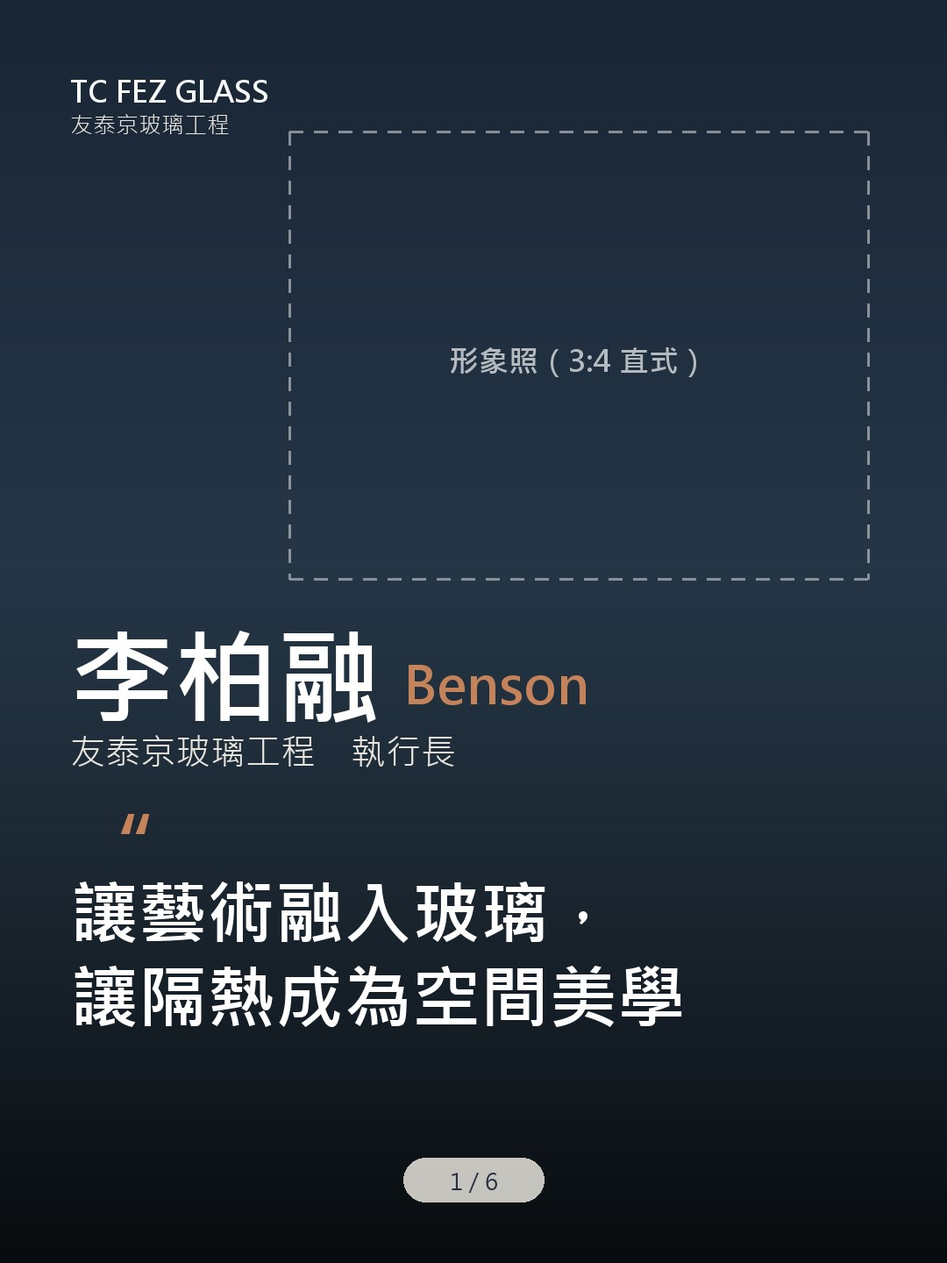
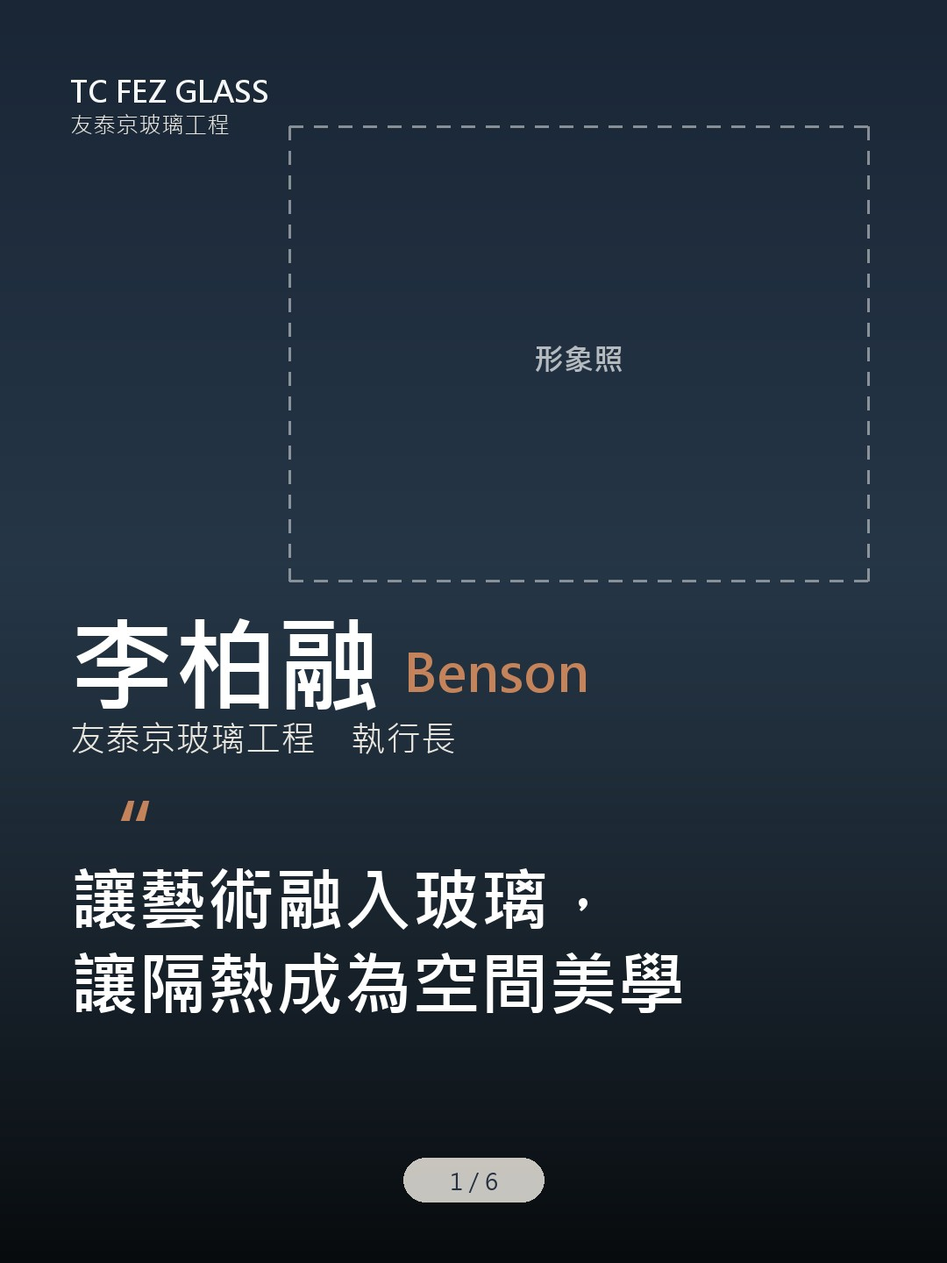
縮短膠囊標籤、卡1/5加保險文字、新增4:3較矮hero可選(?h=43)

diff --git a/index.html b/index.html
@@ -428,11 +428,11 @@ let liffReady = false, flexPayload = null;
 
 /* 改動 flex-cards.json 後請把 BUILD 往後跳一號：
    LINE 內建瀏覽器會快取檔案，不跳號會一直送出舊版卡片 */
-const BUILD = 'b16';
-const PAGE_VER = '2026-10-07-0700-精品工程版'   // 每次改頁面就改這個，用來確認手機拿到的是最新版
+const BUILD = 'b17';
+const PAGE_VER = '2026-10-07-0800-短標籤+4:3可選'   // 每次改頁面就改這個，用來確認手機拿到的是最新版
 
 /* ═══════ FLEX_PAYLOAD_START（由 build_flex.py 自動寫入，勿手改）═══════ */
-const INLINE_FLEX = {"type":"flex","altText":"友泰京玻璃工程｜李柏融 Benson 電子名片","contents":{"type":"carousel","contents":[{"type":"bubble","size":"mega","styles":{"body":{"backgroundColor":"#253043"}},"body":{"type":"box","layout":"vertical","contents":[{"type":"box","layout":"vertical","contents":[{"type":"box","layout":"horizontal","contents":[{"type":"box","layout":"vertical","contents":[{"type":"text","text":"IG 作品","size":"xs","weight":"bold","color":"#FFFFFF","wrap":false,"align":"center"}],"spacing":"none","paddingAll":"12px","backgroundColor":"#253043","cornerRadius":"100px","flex":1,"action":{"type":"uri","label":"IG 作品","uri":"https://www.instagram.com/tc_fez_glass_team/"}},{"type":"box","layout":"vertical","contents":[{"type":"text","text":"💬 LINE諮詢","size":"xs","weight":"bold","color":"#FFFFFF","wrap":false,"align":"center"}],"spacing":"none","paddingAll":"12px","backgroundColor":"#C4835A","cornerRadius":"100px","flex":1,"action":{"type":"uri","label":"💬 LINE諮詢","uri":"https://line.me/ti/p/@fez86488989"}},{"type":"box","layout":"vertical","contents":[{"type":"text","text":"📍 導航門市","size":"xs","weight":"bold","color":"#FFFFFF","wrap":false,"align":"center"}],"spacing":"none","paddingAll":"12px","backgroundColor":"#253043","cornerRadius":"100px","flex":1,"action":{"type":"uri","label":"📍 導航門市","uri":"https://www.google.com/maps/search/?api=1&query=%E5%8F%8B%E6%B3%B0%E4%BA%AC%E7%8E%BB%E7%92%83%E5%B7%A5%E7%A8%8B%20%E6%96%B0%E5%8C%97%E5%B8%82%E4%B8%AD%E5%92%8C%E5%8D%80%E9%80%A3%E5%9F%8E%E8%B7%AF518%E5%B7%B78%E8%99%9F"}}],"spacing":"sm"}],"spacing":"none","paddingAll":"12px","backgroundColor":"#F5F1E8","cornerRadius":"20px"}],"spacing":"none","paddingAll":"14px","backgroundColor":"#253043"},"hero":{"type":"image","url":"https://ericlin1994.github.io/movenpick-card/img/card1.jpg","size":"full","aspectRatio":"3:4","aspectMode":"cover","action":{"type":"uri","label":"開啟名片","uri":"https://liff.line.me/2011897701-TrLfDuwi"}}},{"type":"bubble","size":"mega","styles":{"body":{"backgroundColor":"#253043"}},"body":{"type":"box","layout":"vertical","contents":[{"type":"text","text":"我們專為誰服務","size":"xl","weight":"bold","color":"#C4835A","wrap":true,"margin":"none"},{"type":"box","layout":"vertical","contents":[{"type":"box","layout":"horizontal","contents":[{"type":"box","layout":"vertical","contents":[{"type":"text","text":"設計師","size":"xxs","weight":"bold","color":"#FFFFFF","wrap":false,"align":"center"}],"spacing":"none","paddingAll":"8px","cornerRadius":"100px","flex":1,"borderWidth":"1px","borderColor":"#C4835A"},{"type":"box","layout":"vertical","contents":[{"type":"text","text":"建築師","size":"xxs","weight":"bold","color":"#FFFFFF","wrap":false,"align":"center"}],"spacing":"none","paddingAll":"8px","cornerRadius":"100px","flex":1,"borderWidth":"1px","borderColor":"#C4835A"},{"type":"box","layout":"vertical","contents":[{"type":"text","text":"建商","size":"xxs","weight":"bold","color":"#FFFFFF","wrap":false,"align":"center"}],"spacing":"none","paddingAll":"8px","cornerRadius":"100px","flex":1,"borderWidth":"1px","borderColor":"#C4835A"}],"spacing":"xs"},{"type":"box","layout":"horizontal","contents":[{"type":"box","layout":"vertical","contents":[{"type":"text","text":"營造","size":"xxs","weight":"bold","color":"#FFFFFF","wrap":false,"align":"center"}],"spacing":"none","paddingAll":"8px","cornerRadius":"100px","flex":1,"borderWidth":"1px","borderColor":"#C4835A"},{"type":"box","layout":"vertical","contents":[{"type":"text","text":"商業空間","size":"xxs","weight":"bold","color":"#FFFFFF","wrap":false,"align":"center"}],"spacing":"none","paddingAll":"8px","cornerRadius":"100px","flex":1,"borderWidth":"1px","borderColor":"#C4835A"},{"type":"box","layout":"vertical","contents":[{"type":"text","text":"住宅業主","size":"xxs","weight":"bold","color":"#FFFFFF","wrap":false,"align":"center"}],"spacing":"none","paddingAll":"8px","cornerRadius":"100px","flex":1,"borderWidth":"1px","borderColor":"#C4835A"}],"spacing":"xs"}],"spacing":"xs","margin":"md"},{"type":"box","layout":"vertical","contents":[{"type":"text","text":"你是不是也遇過這些問題？","size":"xs","weight":"bold","color":"#253043","wrap":true,"margin":"none"},{"type":"separator","margin":"sm","color":"#DCD4C5"},{"type":"box","layout":"horizontal","contents":[{"type":"text","text":"📌","size":"xs","weight":"regular","color":"#C4835A","wrap":false,"flex":1},{"type":"text","text":"大圖輸出缺工藝，難達藝術質感","size":"xs","weight":"regular","color":"#253043","wrap":true,"margin":"none","flex":6}],"spacing":"sm","margin":"sm"},{"type":"box","layout":"horizontal","contents":[{"type":"text","text":"📌","size":"xs","weight":"regular","color":"#C4835A","wrap":false,"flex":1},{"type":"text","text":"玻璃鐵件分包，尺寸收邊難整合","size":"xs","weight":"regular","color":"#253043","wrap":true,"margin":"none","flex":6}],"spacing":"sm","margin":"sm"},{"type":"box","layout":"horizontal","contents":[{"type":"text","text":"📌","size":"xs","weight":"regular","color":"#C4835A","wrap":false,"flex":1},{"type":"text","text":"設計圖美，卻找不到廠家實作","size":"xs","weight":"regular","color":"#253043","wrap":true,"margin":"none","flex":6}],"spacing":"sm","margin":"sm"},{"type":"box","layout":"horizontal","contents":[{"type":"text","text":"📌","size":"xs","weight":"regular","color":"#C4835A","wrap":false,"flex":1},{"type":"text","text":"特殊彎曲或異材質，找不到方案","size":"xs","weight":"regular","color":"#253043","wrap":true,"margin":"none","flex":6}],"spacing":"sm","margin":"sm"},{"type":"box","layout":"horizontal","contents":[{"type":"text","text":"📌","size":"xs","weight":"regular","color":"#C4835A","wrap":false,"flex":1},{"type":"text","text":"兼顧採光與隔熱，不知如何選材","size":"xs","weight":"regular","color":"#253043","wrap":true,"margin":"none","flex":6}],"spacing":"sm","margin":"sm"}],"spacing":"sm","margin":"md","paddingAll":"18px","backgroundColor":"#F5F1E8","cornerRadius":"20px"},{"type":"box","layout":"vertical","contents":[{"type":"box","layout":"horizontal","contents":[{"type":"box","layout":"vertical","contents":[{"type":"text","text":"IG 作品","size":"xs","weight":"bold","color":"#FFFFFF","wrap":false,"align":"center"}],"spacing":"none","paddingAll":"12px","backgroundColor":"#253043","cornerRadius":"100px","flex":1,"action":{"type":"uri","label":"IG 作品","uri":"https://www.instagram.com/tc_fez_glass_team/"}},{"type":"box","layout":"vertical","contents":[{"type":"text","text":"💬 LINE諮詢","size":"xs","weight":"bold","color":"#FFFFFF","wrap":false,"align":"center"}],"spacing":"none","paddingAll":"12px","backgroundColor":"#C4835A","cornerRadius":"100px","flex":1,"action":{"type":"uri","label":"💬 LINE諮詢","uri":"https://line.me/ti/p/@fez86488989"}},{"type":"box","layout":"vertical","contents":[{"type":"text","text":"📍 導航門市","size":"xs","weight":"bold","color":"#FFFFFF","wrap":false,"align":"center"}],"spacing":"none","paddingAll":"12px","backgroundColor":"#253043","cornerRadius":"100px","flex":1,"action":{"type":"uri","label":"📍 導航門市","uri":"https://www.google.com/maps/search/?api=1&query=%E5%8F%8B%E6%B3%B0%E4%BA%AC%E7%8E%BB%E7%92%83%E5%B7%A5%E7%A8%8B%20%E6%96%B0%E5%8C%97%E5%B8%82%E4%B8%AD%E5%92%8C%E5%8D%80%E9%80%A3%E5%9F%8E%E8%B7%AF518%E5%B7%B78%E8%99%9F"}}],"spacing":"sm"}],"spacing":"none","paddingAll":"12px","backgroundColor":"#F5F1E8","cornerRadius":"20px"}],"spacing":"md","paddingAll":"18px","backgroundColor":"#253043"}},{"type":"bubble","size":"mega","styles":{"body":{"backgroundColor":"#253043"}},"body":{"type":"box","layout":"vertical","contents":[{"type":"text","text":"我們能為你做什麼","size":"xl","weight":"bold","color":"#C4835A","wrap":true,"margin":"none"},{"type":"text","text":"從設計規劃到現場施作，實現空間想像","size":"sm","weight":"regular","color":"#FFFFFF","wrap":true,"margin":"xs"},{"type":"box","layout":"horizontal","contents":[{"type":"box","layout":"vertical","contents":[{"type":"text","text":"🎨","size":"md","weight":"regular","color":"#C4835A","wrap":false,"margin":"none"},{"type":"text","text":"藝術玻璃","size":"sm","weight":"bold","color":"#FFFFFF","wrap":false,"margin":"sm"},{"type":"text","text":"工藝與色彩結合","size":"xs","weight":"regular","color":"#A0AAB8","wrap":true,"margin":"xs"}],"spacing":"none","paddingAll":"16px","backgroundColor":"#1E2838","cornerRadius":"16px","flex":1},{"type":"box","layout":"vertical","contents":[{"type":"text","text":"🪟","size":"md","weight":"regular","color":"#C4835A","wrap":false,"margin":"none"},{"type":"text","text":"空間玻璃","size":"sm","weight":"bold","color":"#FFFFFF","wrap":false,"margin":"sm"},{"type":"text","text":"美感實用隔間窗","size":"xs","weight":"regular","color":"#A0AAB8","wrap":true,"margin":"xs"}],"spacing":"none","paddingAll":"16px","backgroundColor":"#1E2838","cornerRadius":"16px","flex":1}],"spacing":"md","margin":"md"},{"type":"box","layout":"horizontal","contents":[{"type":"box","layout":"vertical","contents":[{"type":"text","text":"🏗","size":"md","weight":"regular","color":"#C4835A","wrap":false,"margin":"none"},{"type":"text","text":"工程整合","size":"sm","weight":"bold","color":"#FFFFFF","wrap":false,"margin":"sm"},{"type":"text","text":"鋁框鐵件一條龍","size":"xs","weight":"regular","color":"#A0AAB8","wrap":true,"margin":"xs"}],"spacing":"none","paddingAll":"16px","backgroundColor":"#1E2838","cornerRadius":"16px","flex":1},{"type":"box","layout":"vertical","contents":[{"type":"text","text":"🧗","size":"md","weight":"regular","color":"#C4835A","wrap":false,"margin":"none"},{"type":"text","text":"高空作業","size":"sm","weight":"bold","color":"#FFFFFF","wrap":false,"margin":"sm"},{"type":"text","text":"外牆檢測與防水","size":"xs","weight":"regular","color":"#A0AAB8","wrap":true,"margin":"xs"}],"spacing":"none","paddingAll":"16px","backgroundColor":"#1E2838","cornerRadius":"16px","flex":1}],"spacing":"md","margin":"md"},{"type":"box","layout":"vertical","contents":[{"type":"box","layout":"horizontal","contents":[{"type":"box","layout":"vertical","contents":[{"type":"text","text":"IG 作品","size":"xs","weight":"bold","color":"#FFFFFF","wrap":false,"align":"center"}],"spacing":"none","paddingAll":"12px","backgroundColor":"#253043","cornerRadius":"100px","flex":1,"action":{"type":"uri","label":"IG 作品","uri":"https://www.instagram.com/tc_fez_glass_team/"}},{"type":"box","layout":"vertical","contents":[{"type":"text","text":"💬 LINE諮詢","size":"xs","weight":"bold","color":"#FFFFFF","wrap":false,"align":"center"}],"spacing":"none","paddingAll":"12px","backgroundColor":"#C4835A","cornerRadius":"100px","flex":1,"action":{"type":"uri","label":"💬 LINE諮詢","uri":"https://line.me/ti/p/@fez86488989"}},{"type":"box","layout":"vertical","contents":[{"type":"text","text":"📍 導航門市","size":"xs","weight":"bold","color":"#FFFFFF","wrap":false,"align":"center"}],"spacing":"none","paddingAll":"12px","backgroundColor":"#253043","cornerRadius":"100px","flex":1,"action":{"type":"uri","label":"📍 導航門市","uri":"https://www.google.com/maps/search/?api=1&query=%E5%8F%8B%E6%B3%B0%E4%BA%AC%E7%8E%BB%E7%92%83%E5%B7%A5%E7%A8%8B%20%E6%96%B0%E5%8C%97%E5%B8%82%E4%B8%AD%E5%92%8C%E5%8D%80%E9%80%A3%E5%9F%8E%E8%B7%AF518%E5%B7%B78%E8%99%9F"}}],"spacing":"sm"}],"spacing":"none","paddingAll":"12px","backgroundColor":"#F5F1E8","cornerRadius":"20px"}],"spacing":"md","paddingAll":"18px","backgroundColor":"#253043"}},{"type":"bubble","size":"mega","styles":{"body":{"backgroundColor":"#253043"}},"body":{"type":"box","layout":"vertical","contents":[{"type":"text","text":"為什麼選擇友泰京？","size":"xl","weight":"bold","color":"#C4835A","wrap":true,"margin":"none"},{"type":"box","layout":"horizontal","contents":[{"type":"text","text":"30+","size":"4xl","weight":"bold","color":"#C4835A","wrap":false,"flex":2},{"type":"text","text":"年玻璃產業\n服務經驗","size":"sm","weight":"bold","color":"#FFFFFF","wrap":true,"margin":"none","flex":3}],"spacing":"md","margin":"xl","alignItems":"center"},{"type":"box","layout":"horizontal","contents":[{"type":"text","text":"3","size":"4xl","weight":"bold","color":"#C4835A","wrap":false,"flex":2},{"type":"text","text":"代工藝傳承\n品質保證","size":"sm","weight":"bold","color":"#FFFFFF","wrap":true,"margin":"none","flex":3}],"spacing":"md","margin":"md","alignItems":"center"},{"type":"box","layout":"horizontal","contents":[{"type":"text","text":"4","size":"4xl","weight":"bold","color":"#C4835A","wrap":false,"flex":2},{"type":"text","text":"大服務項目\n專業整合","size":"sm","weight":"bold","color":"#FFFFFF","wrap":true,"margin":"none","flex":3}],"spacing":"md","margin":"md","alignItems":"center"},{"type":"box","layout":"vertical","contents":[{"type":"box","layout":"horizontal","contents":[{"type":"box","layout":"vertical","contents":[{"type":"text","text":"IG 作品","size":"xs","weight":"bold","color":"#FFFFFF","wrap":false,"align":"center"}],"spacing":"none","paddingAll":"12px","backgroundColor":"#253043","cornerRadius":"100px","flex":1,"action":{"type":"uri","label":"IG 作品","uri":"https://www.instagram.com/tc_fez_glass_team/"}},{"type":"box","layout":"vertical","contents":[{"type":"text","text":"💬 LINE諮詢","size":"xs","weight":"bold","color":"#FFFFFF","wrap":false,"align":"center"}],"spacing":"none","paddingAll":"12px","backgroundColor":"#C4835A","cornerRadius":"100px","flex":1,"action":{"type":"uri","label":"💬 LINE諮詢","uri":"https://line.me/ti/p/@fez86488989"}},{"type":"box","layout":"vertical","contents":[{"type":"text","text":"📍 導航門市","size":"xs","weight":"bold","color":"#FFFFFF","wrap":false,"align":"center"}],"spacing":"none","paddingAll":"12px","backgroundColor":"#253043","cornerRadius":"100px","flex":1,"action":{"type":"uri","label":"📍 導航門市","uri":"https://www.google.com/maps/search/?api=1&query=%E5%8F%8B%E6%B3%B0%E4%BA%AC%E7%8E%BB%E7%92%83%E5%B7%A5%E7%A8%8B%20%E6%96%B0%E5%8C%97%E5%B8%82%E4%B8%AD%E5%92%8C%E5%8D%80%E9%80%A3%E5%9F%8E%E8%B7%AF518%E5%B7%B78%E8%99%9F"}}],"spacing":"sm"}],"spacing":"none","paddingAll":"12px","backgroundColor":"#F5F1E8","cornerRadius":"20px"}],"spacing":"md","paddingAll":"18px","backgroundColor":"#253043"}},{"type":"bubble","size":"mega","styles":{"body":{"backgroundColor":"#253043"}},"body":{"type":"box","layout":"vertical","contents":[{"type":"box","layout":"vertical","contents":[{"type":"box","layout":"horizontal","contents":[{"type":"box","layout":"vertical","contents":[{"type":"text","text":"IG 作品","size":"xs","weight":"bold","color":"#FFFFFF","wrap":false,"align":"center"}],"spacing":"none","paddingAll":"12px","backgroundColor":"#253043","cornerRadius":"100px","flex":1,"action":{"type":"uri","label":"IG 作品","uri":"https://www.instagram.com/tc_fez_glass_team/"}},{"type":"box","layout":"vertical","contents":[{"type":"text","text":"💬 LINE諮詢","size":"xs","weight":"bold","color":"#FFFFFF","wrap":false,"align":"center"}],"spacing":"none","paddingAll":"12px","backgroundColor":"#C4835A","cornerRadius":"100px","flex":1,"action":{"type":"uri","label":"💬 LINE諮詢","uri":"https://line.me/ti/p/@fez86488989"}},{"type":"box","layout":"vertical","contents":[{"type":"text","text":"📍 導航門市","size":"xs","weight":"bold","color":"#FFFFFF","wrap":false,"align":"center"}],"spacing":"none","paddingAll":"12px","backgroundColor":"#253043","cornerRadius":"100px","flex":1,"action":{"type":"uri","label":"📍 導航門市","uri":"https://www.google.com/maps/search/?api=1&query=%E5%8F%8B%E6%B3%B0%E4%BA%AC%E7%8E%BB%E7%92%83%E5%B7%A5%E7%A8%8B%20%E6%96%B0%E5%8C%97%E5%B8%82%E4%B8%AD%E5%92%8C%E5%8D%80%E9%80%A3%E5%9F%8E%E8%B7%AF518%E5%B7%B78%E8%99%9F"}}],"spacing":"sm"}],"spacing":"none","paddingAll":"12px","backgroundColor":"#F5F1E8","cornerRadius":"20px"}],"spacing":"none","paddingAll":"14px","backgroundColor":"#253043"},"hero":{"type":"image","url":"https://ericlin1994.github.io/movenpick-card/img/card5.jpg","size":"full","aspectRatio":"3:4","aspectMode":"cover","action":{"type":"uri","label":"開啟名片","uri":"https://liff.line.me/2011897701-TrLfDuwi"}}},{"type":"bubble","size":"mega","styles":{"body":{"backgroundColor":"#F5F1E8"}},"body":{"type":"box","layout":"vertical","contents":[{"type":"text","text":"讓我們聊聊你的空間","size":"xl","weight":"bold","color":"#253043","wrap":true,"margin":"none"},{"type":"text","text":"拍下現場照片＋尺寸，LINE 傳給我免費評估","size":"xs","weight":"bold","color":"#C4835A","wrap":true,"margin":"xs"},{"type":"box","layout":"vertical","contents":[{"type":"box","layout":"horizontal","contents":[{"type":"text","text":"📞","size":"sm","weight":"regular","color":"#C4835A","wrap":false,"flex":1},{"type":"text","text":"0938-111-822","size":"sm","weight":"bold","color":"#FFFFFF","wrap":true,"margin":"none","flex":6}],"spacing":"sm","margin":"sm"},{"type":"box","layout":"horizontal","contents":[{"type":"text","text":"💬","size":"sm","weight":"regular","color":"#C4835A","wrap":false,"flex":1},{"type":"text","text":"LINE：@fez86488989","size":"sm","weight":"bold","color":"#FFFFFF","wrap":true,"margin":"none","flex":6}],"spacing":"sm","margin":"sm"},{"type":"box","layout":"horizontal","contents":[{"type":"text","text":"📍","size":"sm","weight":"regular","color":"#C4835A","wrap":false,"flex":1},{"type":"text","text":"新北市中和區連城路518巷8號（中和高中旁巷）","size":"xs","weight":"regular","color":"#FFFFFF","wrap":true,"margin":"none","flex":6}],"spacing":"sm","margin":"sm"},{"type":"box","layout":"horizontal","contents":[{"type":"text","text":"⏰","size":"sm","weight":"regular","color":"#C4835A","wrap":false,"flex":1},{"type":"text","text":"週一～五 08:00-17:00","size":"xs","weight":"regular","color":"#FFFFFF","wrap":true,"margin":"none","flex":6}],"spacing":"sm","margin":"sm"}],"spacing":"sm","margin":"md","paddingAll":"18px","backgroundColor":"#253043","cornerRadius":"20px"},{"type":"box","layout":"vertical","contents":[{"type":"box","layout":"horizontal","contents":[{"type":"box","layout":"vertical","contents":[{"type":"text","text":"IG 作品","size":"xs","weight":"bold","color":"#FFFFFF","wrap":false,"align":"center"}],"spacing":"none","paddingAll":"12px","backgroundColor":"#253043","cornerRadius":"100px","flex":1,"action":{"type":"uri","label":"IG 作品","uri":"https://www.instagram.com/tc_fez_glass_team/"}},{"type":"box","layout":"vertical","contents":[{"type":"text","text":"💬 LINE諮詢","size":"xs","weight":"bold","color":"#FFFFFF","wrap":false,"align":"center"}],"spacing":"none","paddingAll":"12px","backgroundColor":"#C4835A","cornerRadius":"100px","flex":1,"action":{"type":"uri","label":"💬 LINE諮詢","uri":"https://line.me/ti/p/@fez86488989"}},{"type":"box","layout":"vertical","contents":[{"type":"text","text":"📍 導航門市","size":"xs","weight":"bold","color":"#FFFFFF","wrap":false,"align":"center"}],"spacing":"none","paddingAll":"12px","backgroundColor":"#253043","cornerRadius":"100px","flex":1,"action":{"type":"uri","label":"📍 導航門市","uri":"https://www.google.com/maps/search/?api=1&query=%E5%8F%8B%E6%B3%B0%E4%BA%AC%E7%8E%BB%E7%92%83%E5%B7%A5%E7%A8%8B%20%E6%96%B0%E5%8C%97%E5%B8%82%E4%B8%AD%E5%92%8C%E5%8D%80%E9%80%A3%E5%9F%8E%E8%B7%AF518%E5%B7%B78%E8%99%9F"}}],"spacing":"sm"}],"spacing":"none","paddingAll":"12px","backgroundColor":"#F5F1E8","cornerRadius":"20px"}],"spacing":"md","paddingAll":"18px","backgroundColor":"#F5F1E8"}}]}};
+const INLINE_FLEX = {"type":"flex","altText":"友泰京玻璃工程｜李柏融 Benson 電子名片","contents":{"type":"carousel","contents":[{"type":"bubble","size":"mega","styles":{"body":{"backgroundColor":"#253043"}},"body":{"type":"box","layout":"vertical","contents":[{"type":"text","text":"友泰京玻璃工程　藝術玻璃・空間玻璃・工程整合・外牆高空作業","size":"xxs","weight":"regular","color":"#A0AAB8","wrap":true,"margin":"none"},{"type":"box","layout":"vertical","contents":[{"type":"box","layout":"horizontal","contents":[{"type":"box","layout":"vertical","contents":[{"type":"text","text":"📷 IG 作品","size":"xxs","weight":"bold","color":"#FFFFFF","wrap":true,"align":"center"}],"spacing":"none","paddingAll":"10px","backgroundColor":"#253043","cornerRadius":"100px","flex":1,"action":{"type":"uri","label":"📷 IG 作品","uri":"https://www.instagram.com/tc_fez_glass_team/"}},{"type":"box","layout":"vertical","contents":[{"type":"text","text":"💬 LINE","size":"xxs","weight":"bold","color":"#FFFFFF","wrap":true,"align":"center"}],"spacing":"none","paddingAll":"10px","backgroundColor":"#C4835A","cornerRadius":"100px","flex":1,"action":{"type":"uri","label":"💬 LINE","uri":"https://line.me/ti/p/@fez86488989"}},{"type":"box","layout":"vertical","contents":[{"type":"text","text":"📍 導航","size":"xxs","weight":"bold","color":"#FFFFFF","wrap":true,"align":"center"}],"spacing":"none","paddingAll":"10px","backgroundColor":"#253043","cornerRadius":"100px","flex":1,"action":{"type":"uri","label":"📍 導航","uri":"https://www.google.com/maps/search/?api=1&query=%E5%8F%8B%E6%B3%B0%E4%BA%AC%E7%8E%BB%E7%92%83%E5%B7%A5%E7%A8%8B%20%E6%96%B0%E5%8C%97%E5%B8%82%E4%B8%AD%E5%92%8C%E5%8D%80%E9%80%A3%E5%9F%8E%E8%B7%AF518%E5%B7%B78%E8%99%9F"}}],"spacing":"sm"}],"spacing":"none","paddingAll":"10px","backgroundColor":"#F5F1E8","cornerRadius":"20px"}],"spacing":"md","paddingAll":"14px","backgroundColor":"#253043"},"hero":{"type":"image","url":"https://ericlin1994.github.io/movenpick-card/img/card1.jpg","size":"full","aspectRatio":"3:4","aspectMode":"cover","action":{"type":"uri","label":"開啟名片","uri":"https://liff.line.me/2011897701-TrLfDuwi"}}},{"type":"bubble","size":"mega","styles":{"body":{"backgroundColor":"#253043"}},"body":{"type":"box","layout":"vertical","contents":[{"type":"text","text":"我們專為誰服務","size":"xl","weight":"bold","color":"#C4835A","wrap":true,"margin":"none"},{"type":"box","layout":"vertical","contents":[{"type":"box","layout":"horizontal","contents":[{"type":"box","layout":"vertical","contents":[{"type":"text","text":"設計師","size":"xxs","weight":"bold","color":"#FFFFFF","wrap":false,"align":"center"}],"spacing":"none","paddingAll":"8px","cornerRadius":"100px","flex":1,"borderWidth":"1px","borderColor":"#C4835A"},{"type":"box","layout":"vertical","contents":[{"type":"text","text":"建築師","size":"xxs","weight":"bold","color":"#FFFFFF","wrap":false,"align":"center"}],"spacing":"none","paddingAll":"8px","cornerRadius":"100px","flex":1,"borderWidth":"1px","borderColor":"#C4835A"},{"type":"box","layout":"vertical","contents":[{"type":"text","text":"建商","size":"xxs","weight":"bold","color":"#FFFFFF","wrap":false,"align":"center"}],"spacing":"none","paddingAll":"8px","cornerRadius":"100px","flex":1,"borderWidth":"1px","borderColor":"#C4835A"}],"spacing":"xs"},{"type":"box","layout":"horizontal","contents":[{"type":"box","layout":"vertical","contents":[{"type":"text","text":"營造","size":"xxs","weight":"bold","color":"#FFFFFF","wrap":false,"align":"center"}],"spacing":"none","paddingAll":"8px","cornerRadius":"100px","flex":1,"borderWidth":"1px","borderColor":"#C4835A"},{"type":"box","layout":"vertical","contents":[{"type":"text","text":"商空","size":"xxs","weight":"bold","color":"#FFFFFF","wrap":false,"align":"center"}],"spacing":"none","paddingAll":"8px","cornerRadius":"100px","flex":1,"borderWidth":"1px","borderColor":"#C4835A"},{"type":"box","layout":"vertical","contents":[{"type":"text","text":"住宅","size":"xxs","weight":"bold","color":"#FFFFFF","wrap":false,"align":"center"}],"spacing":"none","paddingAll":"8px","cornerRadius":"100px","flex":1,"borderWidth":"1px","borderColor":"#C4835A"}],"spacing":"xs"}],"spacing":"xs","margin":"md"},{"type":"box","layout":"vertical","contents":[{"type":"text","text":"你是不是也遇過這些問題？","size":"xs","weight":"bold","color":"#253043","wrap":true,"margin":"none"},{"type":"separator","margin":"sm","color":"#DCD4C5"},{"type":"box","layout":"horizontal","contents":[{"type":"text","text":"📌","size":"xs","weight":"regular","color":"#C4835A","wrap":false,"flex":1},{"type":"text","text":"大圖輸出缺工藝，難達藝術質感","size":"xs","weight":"regular","color":"#253043","wrap":true,"margin":"none","flex":6}],"spacing":"sm","margin":"sm"},{"type":"box","layout":"horizontal","contents":[{"type":"text","text":"📌","size":"xs","weight":"regular","color":"#C4835A","wrap":false,"flex":1},{"type":"text","text":"玻璃鐵件分包，尺寸收邊難整合","size":"xs","weight":"regular","color":"#253043","wrap":true,"margin":"none","flex":6}],"spacing":"sm","margin":"sm"},{"type":"box","layout":"horizontal","contents":[{"type":"text","text":"📌","size":"xs","weight":"regular","color":"#C4835A","wrap":false,"flex":1},{"type":"text","text":"設計圖美，卻找不到廠家實作","size":"xs","weight":"regular","color":"#253043","wrap":true,"margin":"none","flex":6}],"spacing":"sm","margin":"sm"},{"type":"box","layout":"horizontal","contents":[{"type":"text","text":"📌","size":"xs","weight":"regular","color":"#C4835A","wrap":false,"flex":1},{"type":"text","text":"特殊彎曲或異材質，找不到方案","size":"xs","weight":"regular","color":"#253043","wrap":true,"margin":"none","flex":6}],"spacing":"sm","margin":"sm"},{"type":"box","layout":"horizontal","contents":[{"type":"text","text":"📌","size":"xs","weight":"regular","color":"#C4835A","wrap":false,"flex":1},{"type":"text","text":"兼顧採光與隔熱，不知如何選材","size":"xs","weight":"regular","color":"#253043","wrap":true,"margin":"none","flex":6}],"spacing":"sm","margin":"sm"}],"spacing":"sm","margin":"md","paddingAll":"18px","backgroundColor":"#F5F1E8","cornerRadius":"20px"},{"type":"box","layout":"vertical","contents":[{"type":"box","layout":"horizontal","contents":[{"type":"box","layout":"vertical","contents":[{"type":"text","text":"📷 IG 作品","size":"xxs","weight":"bold","color":"#FFFFFF","wrap":true,"align":"center"}],"spacing":"none","paddingAll":"10px","backgroundColor":"#253043","cornerRadius":"100px","flex":1,"action":{"type":"uri","label":"📷 IG 作品","uri":"https://www.instagram.com/tc_fez_glass_team/"}},{"type":"box","layout":"vertical","contents":[{"type":"text","text":"💬 LINE","size":"xxs","weight":"bold","color":"#FFFFFF","wrap":true,"align":"center"}],"spacing":"none","paddingAll":"10px","backgroundColor":"#C4835A","cornerRadius":"100px","flex":1,"action":{"type":"uri","label":"💬 LINE","uri":"https://line.me/ti/p/@fez86488989"}},{"type":"box","layout":"vertical","contents":[{"type":"text","text":"📍 導航","size":"xxs","weight":"bold","color":"#FFFFFF","wrap":true,"align":"center"}],"spacing":"none","paddingAll":"10px","backgroundColor":"#253043","cornerRadius":"100px","flex":1,"action":{"type":"uri","label":"📍 導航","uri":"https://www.google.com/maps/search/?api=1&query=%E5%8F%8B%E6%B3%B0%E4%BA%AC%E7%8E%BB%E7%92%83%E5%B7%A5%E7%A8%8B%20%E6%96%B0%E5%8C%97%E5%B8%82%E4%B8%AD%E5%92%8C%E5%8D%80%E9%80%A3%E5%9F%8E%E8%B7%AF518%E5%B7%B78%E8%99%9F"}}],"spacing":"sm"}],"spacing":"none","paddingAll":"10px","backgroundColor":"#F5F1E8","cornerRadius":"20px"}],"spacing":"md","paddingAll":"18px","backgroundColor":"#253043"}},{"type":"bubble","size":"mega","styles":{"body":{"backgroundColor":"#253043"}},"body":{"type":"box","layout":"vertical","contents":[{"type":"text","text":"我們能為你做什麼","size":"xl","weight":"bold","color":"#C4835A","wrap":true,"margin":"none"},{"type":"text","text":"從設計規劃到現場施作，實現空間想像","size":"sm","weight":"regular","color":"#FFFFFF","wrap":true,"margin":"xs"},{"type":"box","layout":"horizontal","contents":[{"type":"box","layout":"vertical","contents":[{"type":"text","text":"🎨","size":"md","weight":"regular","color":"#C4835A","wrap":false,"margin":"none"},{"type":"text","text":"藝術玻璃","size":"sm","weight":"bold","color":"#FFFFFF","wrap":false,"margin":"sm"},{"type":"text","text":"工藝與色彩結合","size":"xs","weight":"regular","color":"#A0AAB8","wrap":true,"margin":"xs"}],"spacing":"none","paddingAll":"16px","backgroundColor":"#1E2838","cornerRadius":"16px","flex":1},{"type":"box","layout":"vertical","contents":[{"type":"text","text":"🪟","size":"md","weight":"regular","color":"#C4835A","wrap":false,"margin":"none"},{"type":"text","text":"空間玻璃","size":"sm","weight":"bold","color":"#FFFFFF","wrap":false,"margin":"sm"},{"type":"text","text":"美感實用隔間窗","size":"xs","weight":"regular","color":"#A0AAB8","wrap":true,"margin":"xs"}],"spacing":"none","paddingAll":"16px","backgroundColor":"#1E2838","cornerRadius":"16px","flex":1}],"spacing":"md","margin":"md"},{"type":"box","layout":"horizontal","contents":[{"type":"box","layout":"vertical","contents":[{"type":"text","text":"🏗","size":"md","weight":"regular","color":"#C4835A","wrap":false,"margin":"none"},{"type":"text","text":"工程整合","size":"sm","weight":"bold","color":"#FFFFFF","wrap":false,"margin":"sm"},{"type":"text","text":"鋁框鐵件一條龍","size":"xs","weight":"regular","color":"#A0AAB8","wrap":true,"margin":"xs"}],"spacing":"none","paddingAll":"16px","backgroundColor":"#1E2838","cornerRadius":"16px","flex":1},{"type":"box","layout":"vertical","contents":[{"type":"text","text":"🧗","size":"md","weight":"regular","color":"#C4835A","wrap":false,"margin":"none"},{"type":"text","text":"高空作業","size":"sm","weight":"bold","color":"#FFFFFF","wrap":false,"margin":"sm"},{"type":"text","text":"外牆檢測與防水","size":"xs","weight":"regular","color":"#A0AAB8","wrap":true,"margin":"xs"}],"spacing":"none","paddingAll":"16px","backgroundColor":"#1E2838","cornerRadius":"16px","flex":1}],"spacing":"md","margin":"md"},{"type":"box","layout":"vertical","contents":[{"type":"box","layout":"horizontal","contents":[{"type":"box","layout":"vertical","contents":[{"type":"text","text":"📷 IG 作品","size":"xxs","weight":"bold","color":"#FFFFFF","wrap":true,"align":"center"}],"spacing":"none","paddingAll":"10px","backgroundColor":"#253043","cornerRadius":"100px","flex":1,"action":{"type":"uri","label":"📷 IG 作品","uri":"https://www.instagram.com/tc_fez_glass_team/"}},{"type":"box","layout":"vertical","contents":[{"type":"text","text":"💬 LINE","size":"xxs","weight":"bold","color":"#FFFFFF","wrap":true,"align":"center"}],"spacing":"none","paddingAll":"10px","backgroundColor":"#C4835A","cornerRadius":"100px","flex":1,"action":{"type":"uri","label":"💬 LINE","uri":"https://line.me/ti/p/@fez86488989"}},{"type":"box","layout":"vertical","contents":[{"type":"text","text":"📍 導航","size":"xxs","weight":"bold","color":"#FFFFFF","wrap":true,"align":"center"}],"spacing":"none","paddingAll":"10px","backgroundColor":"#253043","cornerRadius":"100px","flex":1,"action":{"type":"uri","label":"📍 導航","uri":"https://www.google.com/maps/search/?api=1&query=%E5%8F%8B%E6%B3%B0%E4%BA%AC%E7%8E%BB%E7%92%83%E5%B7%A5%E7%A8%8B%20%E6%96%B0%E5%8C%97%E5%B8%82%E4%B8%AD%E5%92%8C%E5%8D%80%E9%80%A3%E5%9F%8E%E8%B7%AF518%E5%B7%B78%E8%99%9F"}}],"spacing":"sm"}],"spacing":"none","paddingAll":"10px","backgroundColor":"#F5F1E8","cornerRadius":"20px"}],"spacing":"md","paddingAll":"18px","backgroundColor":"#253043"}},{"type":"bubble","size":"mega","styles":{"body":{"backgroundColor":"#253043"}},"body":{"type":"box","layout":"vertical","contents":[{"type":"text","text":"為什麼選擇友泰京？","size":"xl","weight":"bold","color":"#C4835A","wrap":true,"margin":"none"},{"type":"box","layout":"horizontal","contents":[{"type":"text","text":"30+","size":"4xl","weight":"bold","color":"#C4835A","wrap":false,"flex":2},{"type":"text","text":"年玻璃產業\n服務經驗","size":"sm","weight":"bold","color":"#FFFFFF","wrap":true,"margin":"none","flex":3}],"spacing":"md","margin":"xl","alignItems":"center"},{"type":"box","layout":"horizontal","contents":[{"type":"text","text":"3","size":"4xl","weight":"bold","color":"#C4835A","wrap":false,"flex":2},{"type":"text","text":"代工藝傳承\n品質保證","size":"sm","weight":"bold","color":"#FFFFFF","wrap":true,"margin":"none","flex":3}],"spacing":"md","margin":"md","alignItems":"center"},{"type":"box","layout":"horizontal","contents":[{"type":"text","text":"4","size":"4xl","weight":"bold","color":"#C4835A","wrap":false,"flex":2},{"type":"text","text":"大服務項目\n專業整合","size":"sm","weight":"bold","color":"#FFFFFF","wrap":true,"margin":"none","flex":3}],"spacing":"md","margin":"md","alignItems":"center"},{"type":"box","layout":"vertical","contents":[{"type":"box","layout":"horizontal","contents":[{"type":"box","layout":"vertical","contents":[{"type":"text","text":"📷 IG 作品","size":"xxs","weight":"bold","color":"#FFFFFF","wrap":true,"align":"center"}],"spacing":"none","paddingAll":"10px","backgroundColor":"#253043","cornerRadius":"100px","flex":1,"action":{"type":"uri","label":"📷 IG 作品","uri":"https://www.instagram.com/tc_fez_glass_team/"}},{"type":"box","layout":"vertical","contents":[{"type":"text","text":"💬 LINE","size":"xxs","weight":"bold","color":"#FFFFFF","wrap":true,"align":"center"}],"spacing":"none","paddingAll":"10px","backgroundColor":"#C4835A","cornerRadius":"100px","flex":1,"action":{"type":"uri","label":"💬 LINE","uri":"https://line.me/ti/p/@fez86488989"}},{"type":"box","layout":"vertical","contents":[{"type":"text","text":"📍 導航","size":"xxs","weight":"bold","color":"#FFFFFF","wrap":true,"align":"center"}],"spacing":"none","paddingAll":"10px","backgroundColor":"#253043","cornerRadius":"100px","flex":1,"action":{"type":"uri","label":"📍 導航","uri":"https://www.google.com/maps/search/?api=1&query=%E5%8F%8B%E6%B3%B0%E4%BA%AC%E7%8E%BB%E7%92%83%E5%B7%A5%E7%A8%8B%20%E6%96%B0%E5%8C%97%E5%B8%82%E4%B8%AD%E5%92%8C%E5%8D%80%E9%80%A3%E5%9F%8E%E8%B7%AF518%E5%B7%B78%E8%99%9F"}}],"spacing":"sm"}],"spacing":"none","paddingAll":"10px","backgroundColor":"#F5F1E8","cornerRadius":"20px"}],"spacing":"md","paddingAll":"18px","backgroundColor":"#253043"}},{"type":"bubble","size":"mega","styles":{"body":{"backgroundColor":"#253043"}},"body":{"type":"box","layout":"vertical","contents":[{"type":"text","text":"藝術工藝・機能選材・精準加工・施工細節","size":"xxs","weight":"regular","color":"#A0AAB8","wrap":true,"margin":"none"},{"type":"box","layout":"vertical","contents":[{"type":"box","layout":"horizontal","contents":[{"type":"box","layout":"vertical","contents":[{"type":"text","text":"📷 IG 作品","size":"xxs","weight":"bold","color":"#FFFFFF","wrap":true,"align":"center"}],"spacing":"none","paddingAll":"10px","backgroundColor":"#253043","cornerRadius":"100px","flex":1,"action":{"type":"uri","label":"📷 IG 作品","uri":"https://www.instagram.com/tc_fez_glass_team/"}},{"type":"box","layout":"vertical","contents":[{"type":"text","text":"💬 LINE","size":"xxs","weight":"bold","color":"#FFFFFF","wrap":true,"align":"center"}],"spacing":"none","paddingAll":"10px","backgroundColor":"#C4835A","cornerRadius":"100px","flex":1,"action":{"type":"uri","label":"💬 LINE","uri":"https://line.me/ti/p/@fez86488989"}},{"type":"box","layout":"vertical","contents":[{"type":"text","text":"📍 導航","size":"xxs","weight":"bold","color":"#FFFFFF","wrap":true,"align":"center"}],"spacing":"none","paddingAll":"10px","backgroundColor":"#253043","cornerRadius":"100px","flex":1,"action":{"type":"uri","label":"📍 導航","uri":"https://www.google.com/maps/search/?api=1&query=%E5%8F%8B%E6%B3%B0%E4%BA%AC%E7%8E%BB%E7%92%83%E5%B7%A5%E7%A8%8B%20%E6%96%B0%E5%8C%97%E5%B8%82%E4%B8%AD%E5%92%8C%E5%8D%80%E9%80%A3%E5%9F%8E%E8%B7%AF518%E5%B7%B78%E8%99%9F"}}],"spacing":"sm"}],"spacing":"none","paddingAll":"10px","backgroundColor":"#F5F1E8","cornerRadius":"20px"}],"spacing":"md","paddingAll":"14px","backgroundColor":"#253043"},"hero":{"type":"image","url":"https://ericlin1994.github.io/movenpick-card/img/card5.jpg","size":"full","aspectRatio":"3:4","aspectMode":"cover","action":{"type":"uri","label":"開啟名片","uri":"https://liff.line.me/2011897701-TrLfDuwi"}}},{"type":"bubble","size":"mega","styles":{"body":{"backgroundColor":"#F5F1E8"}},"body":{"type":"box","layout":"vertical","contents":[{"type":"text","text":"讓我們聊聊你的空間","size":"xl","weight":"bold","color":"#253043","wrap":true,"margin":"none"},{"type":"text","text":"拍下現場照片＋尺寸，LINE 傳給我免費評估","size":"xs","weight":"bold","color":"#C4835A","wrap":true,"margin":"xs"},{"type":"box","layout":"vertical","contents":[{"type":"box","layout":"horizontal","contents":[{"type":"text","text":"📞","size":"sm","weight":"regular","color":"#C4835A","wrap":false,"flex":1},{"type":"text","text":"0938-111-822","size":"sm","weight":"bold","color":"#FFFFFF","wrap":true,"margin":"none","flex":6}],"spacing":"sm","margin":"sm"},{"type":"box","layout":"horizontal","contents":[{"type":"text","text":"💬","size":"sm","weight":"regular","color":"#C4835A","wrap":false,"flex":1},{"type":"text","text":"LINE：@fez86488989","size":"sm","weight":"bold","color":"#FFFFFF","wrap":true,"margin":"none","flex":6}],"spacing":"sm","margin":"sm"},{"type":"box","layout":"horizontal","contents":[{"type":"text","text":"📍","size":"sm","weight":"regular","color":"#C4835A","wrap":false,"flex":1},{"type":"text","text":"新北市中和區連城路518巷8號（中和高中旁巷）","size":"xs","weight":"regular","color":"#FFFFFF","wrap":true,"margin":"none","flex":6}],"spacing":"sm","margin":"sm"},{"type":"box","layout":"horizontal","contents":[{"type":"text","text":"⏰","size":"sm","weight":"regular","color":"#C4835A","wrap":false,"flex":1},{"type":"text","text":"週一～五 08:00-17:00","size":"xs","weight":"regular","color":"#FFFFFF","wrap":true,"margin":"none","flex":6}],"spacing":"sm","margin":"sm"}],"spacing":"sm","margin":"md","paddingAll":"18px","backgroundColor":"#253043","cornerRadius":"20px"},{"type":"box","layout":"vertical","contents":[{"type":"box","layout":"horizontal","contents":[{"type":"box","layout":"vertical","contents":[{"type":"text","text":"📷 IG 作品","size":"xxs","weight":"bold","color":"#FFFFFF","wrap":true,"align":"center"}],"spacing":"none","paddingAll":"10px","backgroundColor":"#253043","cornerRadius":"100px","flex":1,"action":{"type":"uri","label":"📷 IG 作品","uri":"https://www.instagram.com/tc_fez_glass_team/"}},{"type":"box","layout":"vertical","contents":[{"type":"text","text":"💬 LINE","size":"xxs","weight":"bold","color":"#FFFFFF","wrap":true,"align":"center"}],"spacing":"none","paddingAll":"10px","backgroundColor":"#C4835A","cornerRadius":"100px","flex":1,"action":{"type":"uri","label":"💬 LINE","uri":"https://line.me/ti/p/@fez86488989"}},{"type":"box","layout":"vertical","contents":[{"type":"text","text":"📍 導航","size":"xxs","weight":"bold","color":"#FFFFFF","wrap":true,"align":"center"}],"spacing":"none","paddingAll":"10px","backgroundColor":"#253043","cornerRadius":"100px","flex":1,"action":{"type":"uri","label":"📍 導航","uri":"https://www.google.com/maps/search/?api=1&query=%E5%8F%8B%E6%B3%B0%E4%BA%AC%E7%8E%BB%E7%92%83%E5%B7%A5%E7%A8%8B%20%E6%96%B0%E5%8C%97%E5%B8%82%E4%B8%AD%E5%92%8C%E5%8D%80%E9%80%A3%E5%9F%8E%E8%B7%AF518%E5%B7%B78%E8%99%9F"}}],"spacing":"sm"}],"spacing":"none","paddingAll":"10px","backgroundColor":"#F5F1E8","cornerRadius":"20px"}],"spacing":"md","paddingAll":"18px","backgroundColor":"#F5F1E8"}}]}};
 /* ═══════ FLEX_PAYLOAD_END ═══════ */
 
 /* ═══════ F_CANDIDATE_START（由 build_flex.py 自動寫入，勿手改）═══════ */
@@ -444,6 +444,22 @@ const INLINE_F2 = {"type":"flex","altText":"F2 有圖版","contents":{"type":"ca
 const DEBUG = /debug=1/.test(decodeURIComponent(location.search));
 const diagEl = document.getElementById('diag');
 const ssDiagEl = document.getElementById('ssDiag');   // 分享模式下的黑框
+
+/* 送出用的 payload：加 ?h=43 就用 4:3 較矮版 hero（3:4 海報在手機上很高，
+   卡片下半部要往下滑才看得到；4:3 一眼看到全部） */
+function payloadForSend(){
+  if(!flexPayload) return null;
+  const q = decodeURIComponent(location.search);
+  if(!/h=43/.test(q)) return flexPayload;
+  const p = JSON.parse(JSON.stringify(flexPayload));
+  (p.contents.contents || []).forEach(b => {
+    if(b.hero && /card[0-9]+\.jpg$/.test(b.hero.url)){
+      b.hero.url = b.hero.url.replace(/\.jpg$/, '_43.jpg');
+      b.hero.aspectRatio = '4:3';
+    }
+  });
+  return p;
+}
 function diag(msg, bad){
   diagEl.classList.add('show');
   const line = (bad ? '<span class="bad">✗ ' : '· ') + String(msg).replace(/</g,'&lt;') + (bad ? '</span>' : '') + '\n';
@@ -565,7 +581,7 @@ async function sendToChat(){
           { type:'button', style:'primary', action:{ type:'uri', label:'官方網站', uri: LINKS.site } } ]}}}];
       diag('本次送：極簡小卡（對照）');
     }else{
-      messages = [flexPayload];
+      messages = [payloadForSend()];
       diag('本次送：完整 7 張卡片');
     }
     await liff.sendMessages(messages);
@@ -1068,7 +1084,7 @@ async function shareCard(){
                  ]}}}];
         label = '單張無圖 Flex';
       }else{
-        msg = [flexPayload];
+        msg = [payloadForSend()];
         label = '完整 7 張 Flex 卡片';
       }
       diag('本次送出類型：' + (typeof label2 !== 'undefined' ? label2 : label));

diff --git a/gen_cards.py b/gen_cards.py
@@ -72,7 +72,8 @@ def placeholder(img, boxrect, label="形象照"):
     return over(img, lay)
 
 
-def glass_art(sz=(W, H)):
+def glass_art(sz=None):
+    sz = sz or (W, H)
     """玻璃質感替代視覺（尚未有實拍照時）"""
     img = gradient(sz, (20, 34, 48), (40, 74, 88))
     lay = layer(sz)
@@ -84,22 +85,27 @@ def glass_art(sz=(W, H)):
     return over(img, lay.filter(ImageFilter.GaussianBlur(10)))
 
 
-def photo_or_none(name):
+def photo_or_none(name, h=H):
     p = ROOT / name
     if not p.exists():
         return None
     im = Image.open(p).convert("RGB")
-    r = max(W / im.width, H / im.height)
+    r = max(W / im.width, h / im.height)
     im = im.resize((int(im.width * r), int(im.height * r)), Image.LANCZOS)
-    l, t = (im.width - W) // 2, (im.height - H) // 2
-    return im.crop((l, t, l + W, t + H))
+    l, t = (im.width - W) // 2, (im.height - h) // 2
+    return im.crop((l, t, l + W, t + h))
 
 
 def poster(path_out, art, name, en="", role="", slogan=(), pager="1 / 6",
-           name_size=120, name_y=700, show_quote=True):
+           name_size=120, name_y=None, show_quote=True, canvas_h=None, size_k=1.0):
+    """canvas_h / unit：同一組文案可套在 3:4（1440）與 4:3（810）兩種畫布"""
+    h = canvas_h or H
+    size_k = size_k * (h / H) ** 0.35   # 矮版字級略縮，避免擠
+    if name_y is None:
+        name_y = int(h * 0.47)
     img = art
-    img = bottom_mask(img, start=int(H * 0.44))
-    lay = layer((W, H))
+    img = bottom_mask(img, start=int(h * 0.44))
+    lay = layer((W, h))
     d = ImageDraw.Draw(lay)
 
     # 品牌（左上 80,80）
@@ -115,20 +121,23 @@ def poster(path_out, art, name, en="", role="", slogan=(), pager="1 / 6",
             d.text((80 + fo.getlength(line) + 26, y + int(name_size * 0.42)),
                    en, font=font(BOLD, int(name_size * 0.5)), fill=COPPER + (255,))
 
-    y = name_y + int(name_size * 1.12) * len(name.split("\n")) + 6
+    y = name_y + int(name_size * 1.12) * len(name.split("\n")) + int(h * 0.004)
     if role:
-        d.text((80, y), role, font=font(REG, 40), fill=BEIGE + (240,)); y += 62
+        d.text((80, y), role, font=font(REG, int(40 * size_k)), fill=BEIGE + (240,))
+        y += int(62 * size_k)
     if show_quote and slogan:
-        d.text((80, y + 8), "“", font=font(BOLD, 96), fill=COPPER + (255,)); y += 96
+        d.text((80, y + 8), "“", font=font(BOLD, int(96 * size_k)), fill=COPPER + (255,))
+        y += int(96 * size_k)
     for line in slogan:
-        d.text((80, y), line, font=font(BOLD, 78), fill=WHITE + (255,)); y += 96
+        d.text((80, y), line, font=font(BOLD, int(78 * size_k)), fill=WHITE + (255,))
+        y += int(96 * size_k)
 
     img = over(img, lay)
 
     # 頁碼膠囊（底部置中、米白 80%）
     pw, ph = 160, 50
-    px, py = (W - pw) // 2, 1320
-    lay2 = layer((W, H))
+    px, py = (W - pw) // 2, int(h - 120)
+    lay2 = layer((W, h))
     ImageDraw.Draw(lay2).rounded_rectangle([px, py, px + pw, py + ph], radius=25,
                                            fill=BEIGE + (204,))
     img = over(img, lay2)
@@ -140,25 +149,25 @@ def poster(path_out, art, name, en="", role="", slogan=(), pager="1 / 6",
     return path_out
 
 
-def card1(pager="1 / 6"):
-    ph = photo_or_none("photo.jpg")
+def card1(pager="1 / 6", h=H, out="card1.jpg"):
+    ph = photo_or_none("photo.jpg", h)
     if ph:
-        art = bottom_mask(ph, start=int(H * 0.42), strength=0.9)
+        art = bottom_mask(ph, start=int(h * 0.42), strength=0.9)
     else:
-        art = gradient((W, H), (26, 38, 54), (52, 74, 92))
-        art = placeholder(art, (330, 150, W - 90, 660), "形象照（3:4 直式）")
-    return poster(OUT / "card1.jpg", art, "李柏融", en="Benson",
+        art = gradient((W, h), (26, 38, 54), (52, 74, 92))
+        art = placeholder(art, (330, int(h * 0.10), W - 90, int(h * 0.46)), "形象照")
+    return poster(OUT / out, art, "李柏融", en="Benson",
                   role="友泰京玻璃工程　執行長",
                   slogan=("讓藝術融入玻璃，", "讓隔熱成為空間美學"), pager=pager,
-                  name_size=118, name_y=690)
+                  name_size=int(118 * (h / H) ** 0.6), canvas_h=h)
 
 
-def card5(pager="5 / 6"):
-    art = glass_art()
-    return poster(OUT / "card5.jpg", art, "品質落在實處", en="",
+def card5(pager="5 / 6", h=H, out="card5.jpg"):
+    art = glass_art((W, h))
+    return poster(OUT / out, art, "品質落在實處", en="",
                   role="工藝藏在細節，滿足高標準設計",
                   slogan=("藝術工藝 · 機能選材", "精準加工 · 施工細節"), pager=pager,
-                  name_size=96, name_y=700, show_quote=False)
+                  name_size=int(96 * (h / H) ** 0.6), show_quote=False, canvas_h=h)
 
 
 def make_og():
@@ -184,6 +193,8 @@ def make_og():
 
 
 if __name__ == "__main__":
-    for mk, n in ((card1, 1), (card5, 5)):
-        print("✓", mk(f"{n} / 6").name)
+    print("✓", card1("1 / 6").name, "（3:4）")
+    print("✓", card5("5 / 6").name, "（3:4）")
+    print("✓", card1("1 / 6", h=810, out="card1_43.jpg").name, "（4:3 較矮）")
+    print("✓", card5("5 / 6", h=810, out="card5_43.jpg").name, "（4:3 較矮）")
     print("✓", make_og().name)

diff --git a/build_flex.py b/build_flex.py
@@ -72,18 +72,19 @@ def sep(margin="md", color=DIVIDE): return {"type": "separator", "margin": margi
 
 
 def pill(label, uri, bg, fg=WHITE):
-    """圓角膠囊按鈕：用 box + action 做（LINE 預設 button 無法自訂圓角與底色）"""
-    return box([t(label, size="xs", weight="bold", color=fg, align="center", wrap=False)],
-               spacing="none", padding="12px", bg=bg, radius="100px", flex=1,
+    """圓角膠囊按鈕：用 box + action 做（LINE 預設 button 無法自訂圓角與底色）。
+    標籤要短、字級 xxs、允許換行——三顆膠囊各佔 1/3 寬，字太長會被裁掉。"""
+    return box([t(label, size="xxs", weight="bold", color=fg, align="center", wrap=True)],
+               spacing="none", padding="10px", bg=bg, radius="100px", flex=1,
                action={"type": "uri", "label": label[:20], "uri": uri})
 
 
 def control_row():
     """共用底部操作區：米白圓角底 + 三顆膠囊（IG / LINE / 導航）"""
-    return box([hbox(pill("IG 作品", LINKS["ig"], NAVY),
-                     pill("💬 LINE諮詢", LINKS["line"], COPPER),
-                     pill("📍 導航門市", LINKS["map"], NAVY), spacing="sm")],
-               spacing="none", padding="12px", bg=BEIGE, radius="20px")
+    return box([hbox(pill("📷 IG 作品", LINKS["ig"], NAVY),
+                     pill("💬 LINE", LINKS["line"], COPPER),
+                     pill("📍 導航", LINKS["map"], NAVY), spacing="sm")],
+               spacing="none", padding="10px", bg=BEIGE, radius="20px")
 
 
 def tag_pill(label):
@@ -94,12 +95,14 @@ def tag_pill(label):
 
 # ═══════════ 逐卡 body ═══════════
 def body1():
-    """雜誌封面款：文案全部烤進 Hero 圖，body 只有操作列"""
-    return vbox([control_row()], spacing="none", padding="14px", bg=NAVY)
+    """雜誌封面款：主文案烤進 Hero 圖；body 保留一行保險文字 + 操作列"""
+    return vbox([t("友泰京玻璃工程　藝術玻璃・空間玻璃・工程整合・外牆高空作業",
+                   size="xxs", color=MUTED, margin="none"),
+                 control_row()], spacing="md", padding="14px", bg=NAVY)
 
 
 def body2():
-    aud = ["設計師", "建築師", "建商", "營造", "商業空間", "住宅業主"]
+    aud = ["設計師", "建築師", "建商", "營造", "商空", "住宅"]
     pains = ["大圖輸出缺工藝，難達藝術質感",
              "玻璃鐵件分包，尺寸收邊難整合",
              "設計圖美，卻找不到廠家實作",
@@ -150,8 +153,10 @@ def body4():
 
 
 def body5():
-    """工藝：文案烤進 3:4 Hero 圖，body 只有操作列"""
-    return vbox([control_row()], spacing="none", padding="14px", bg=NAVY)
+    """工藝：主文案烤進 3:4 Hero 圖；body 保留一行保險文字 + 操作列"""
+    return vbox([t("藝術工藝・機能選材・精準加工・施工細節",
+                   size="xxs", color=MUTED, margin="none"),
+                 control_row()], spacing="md", padding="14px", bg=NAVY)
 
 
 def body6():
